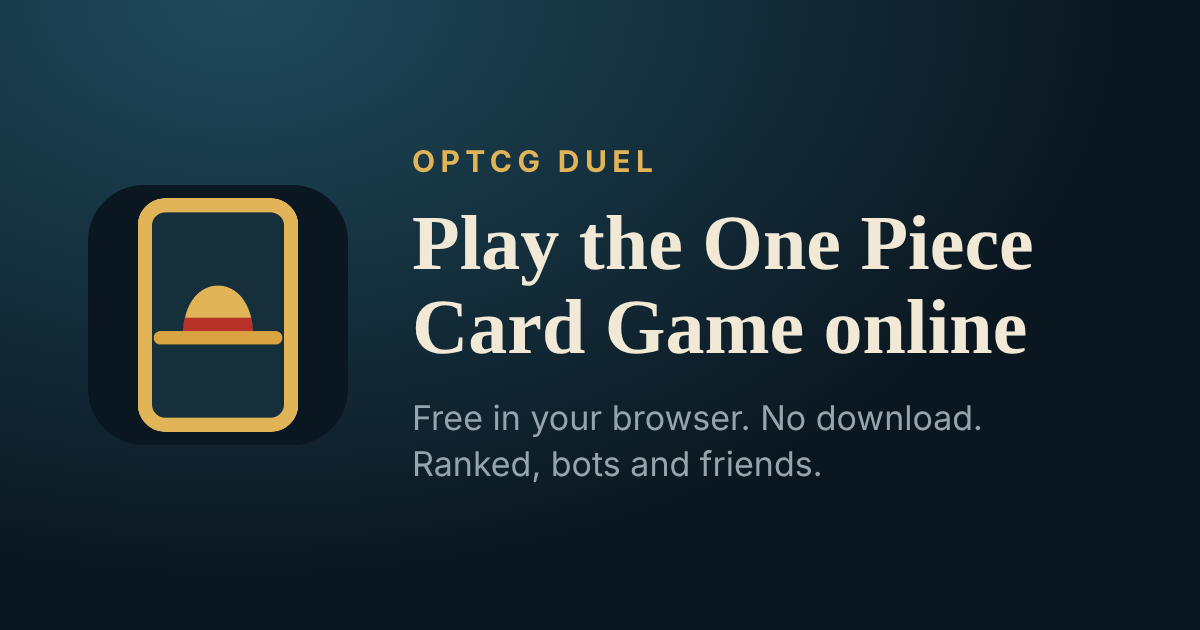
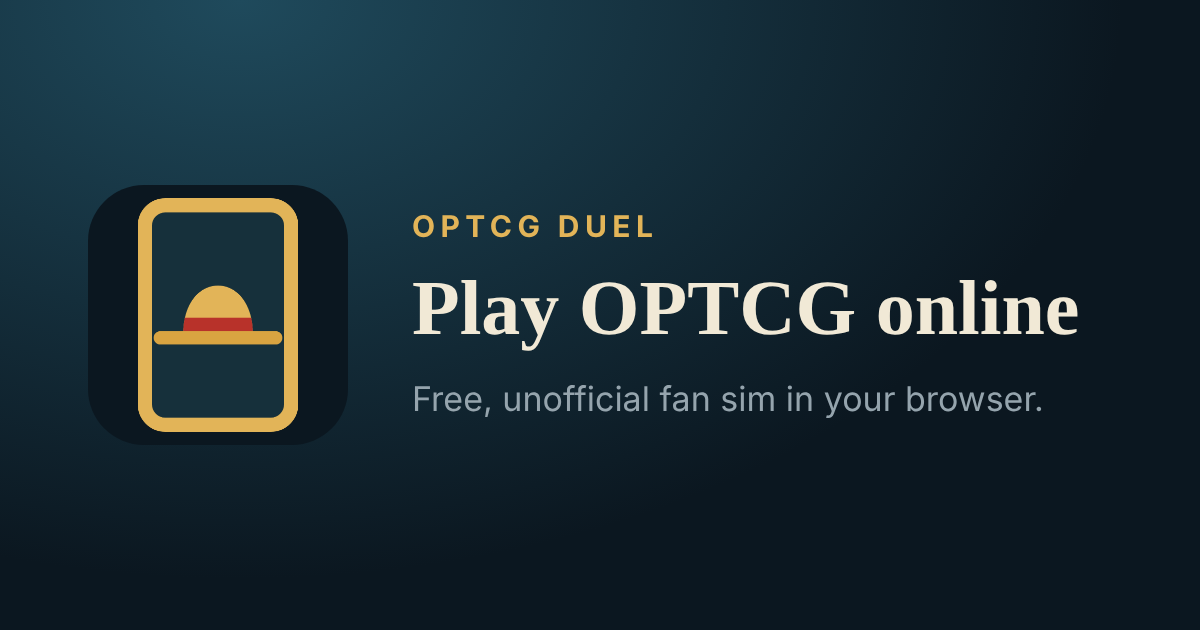
Copy: frame the public pages as an unofficial fan project, not the official game (#807)
Claude-Session: https://claude.ai/code/session_01YAFSoGCEig1xq7bZnX8uPi

diff --git a/duel-web/index.html b/duel-web/index.html
@@ -16,21 +16,21 @@
          of the fixed black of "black". -->
     <meta name="apple-mobile-web-app-status-bar-style" content="default" />
     <meta name="apple-mobile-web-app-title" content="OPTCG Duel" />
-    <title>OPTCG Duel – Play the One Piece Card Game online, free in your browser</title>
-    <meta name="description" content="Play the One Piece Card Game online for free in your browser. No download. Ranked matches, bots to practice against, friends, and your own decks from the OPTCG Deck Planner." />
+    <title>OPTCG Duel – free unofficial One Piece TCG simulator</title>
+    <meta name="description" content="Play OPTCG online, free in your browser. An unofficial fan-made One Piece TCG simulator with ranked matches, bots, friends and your own decks. No download." />
     <link rel="canonical" href="https://optcgduel.app/" />
     <meta property="og:type" content="website" />
     <meta property="og:site_name" content="OPTCG Duel" />
-    <meta property="og:title" content="OPTCG Duel – Play the One Piece Card Game online, free in your browser" />
-    <meta property="og:description" content="Play the One Piece Card Game online for free in your browser. No download. Ranked matches, bots to practice against, friends, and your own decks from the OPTCG Deck Planner." />
+    <meta property="og:title" content="OPTCG Duel – free unofficial One Piece TCG simulator" />
+    <meta property="og:description" content="Play OPTCG online, free in your browser. An unofficial fan-made One Piece TCG simulator with ranked matches, bots, friends and your own decks. No download." />
     <meta property="og:url" content="https://optcgduel.app/" />
     <meta property="og:image" content="https://optcgduel.app/og-image.png" />
     <meta property="og:image:width" content="1200" />
     <meta property="og:image:height" content="630" />
     <meta property="og:image:alt" content="OPTCG Duel" />
     <meta name="twitter:card" content="summary_large_image" />
-    <meta name="twitter:title" content="OPTCG Duel – Play the One Piece Card Game online, free in your browser" />
-    <meta name="twitter:description" content="Play the One Piece Card Game online for free in your browser. No download. Ranked matches, bots to practice against, friends, and your own decks from the OPTCG Deck Planner." />
+    <meta name="twitter:title" content="OPTCG Duel – free unofficial One Piece TCG simulator" />
+    <meta name="twitter:description" content="Play OPTCG online, free in your browser. An unofficial fan-made One Piece TCG simulator with ranked matches, bots, friends and your own decks. No download." />
     <meta name="twitter:image" content="https://optcgduel.app/og-image.png" />
     <script type="application/ld+json">
     {
@@ -38,7 +38,7 @@
       "@type": "WebApplication",
       "name": "OPTCG Duel",
       "url": "https://optcgduel.app/",
-      "description": "Play the One Piece Card Game online for free in your browser. No download. Ranked matches, bots to practice against, friends, and your own decks from the OPTCG Deck Planner.",
+      "description": "Play OPTCG online, free in your browser. An unofficial fan-made One Piece TCG simulator with ranked matches, bots, friends and your own decks. No download.",
       "applicationCategory": "GameApplication",
       "operatingSystem": "Any (web browser)",
       "offers": {

diff --git a/frontend/index.html b/frontend/index.html
@@ -12,12 +12,12 @@
       } catch (e) {}
     </script>
     <title>OPTCG Deck Planner – One Piece TCG deck builder with live TCGPlayer prices</title>
-    <meta name="description" content="Plan One Piece Card Game decks, track the cards you own and see what you still need to buy, with live TCGPlayer market prices and recent sales. Free with a Google account." />
+    <meta name="description" content="Plan One Piece TCG decks, track the cards you own and see what you still need to buy, with live TCGPlayer prices. An unofficial fan-made tool, free with a Google account." />
     <link rel="canonical" href="https://optcg-deck-planner.app/" />
     <meta property="og:type" content="website" />
     <meta property="og:site_name" content="OPTCG Deck Planner" />
     <meta property="og:title" content="OPTCG Deck Planner – One Piece TCG deck builder with live TCGPlayer prices" />
-    <meta property="og:description" content="Plan One Piece Card Game decks, track the cards you own and see what you still need to buy, with live TCGPlayer market prices and recent sales. Free with a Google account." />
+    <meta property="og:description" content="Plan One Piece TCG decks, track the cards you own and see what you still need to buy, with live TCGPlayer prices. An unofficial fan-made tool, free with a Google account." />
     <meta property="og:url" content="https://optcg-deck-planner.app/" />
     <meta property="og:image" content="https://optcg-deck-planner.app/og-image.png" />
     <meta property="og:image:width" content="1200" />
@@ -25,7 +25,7 @@
     <meta property="og:image:alt" content="OPTCG Deck Planner" />
     <meta name="twitter:card" content="summary_large_image" />
     <meta name="twitter:title" content="OPTCG Deck Planner – One Piece TCG deck builder with live TCGPlayer prices" />
-    <meta name="twitter:description" content="Plan One Piece Card Game decks, track the cards you own and see what you still need to buy, with live TCGPlayer market prices and recent sales. Free with a Google account." />
+    <meta name="twitter:description" content="Plan One Piece TCG decks, track the cards you own and see what you still need to buy, with live TCGPlayer prices. An unofficial fan-made tool, free with a Google account." />
     <meta name="twitter:image" content="https://optcg-deck-planner.app/og-image.png" />
     <script type="application/ld+json">
     {
@@ -33,7 +33,7 @@
       "@type": "WebApplication",
       "name": "OPTCG Deck Planner",
       "url": "https://optcg-deck-planner.app/",
-      "description": "Plan One Piece Card Game decks, track the cards you own and see what you still need to buy, with live TCGPlayer market prices and recent sales. Free with a Google account.",
+      "description": "Plan One Piece TCG decks, track the cards you own and see what you still need to buy, with live TCGPlayer prices. An unofficial fan-made tool, free with a Google account.",
       "applicationCategory": "UtilitiesApplication",
       "operatingSystem": "Any (web browser)",
       "offers": {

diff --git a/duel-web/src/pages/PlayOnlinePage.tsx b/duel-web/src/pages/PlayOnlinePage.tsx
@@ -16,7 +16,7 @@ export const PLAY_ONLINE_FAQ: readonly { q: string; a: string }[] = [
     a: "No. It runs in your browser on a computer, tablet or phone. You can add it to your Home Screen if you want an app icon.",
   },
   {
-    q: "Can I play the One Piece Card Game on my phone?",
+    q: "Can I play OPTCG on my phone?",
     a: "Yes. The board has a layout made for phones, and you can drag cards with your finger.",
   },
   {
@@ -60,7 +60,7 @@ const FEATURES: readonly { title: string; body: string }[] = [
   { title: "Phone layout", body: "A board built for small screens, not a shrunken desktop page." },
 ];
 
-/** Public landing page for people searching how to play the One Piece Card Game online. */
+/** Public landing page for people searching how to play OPTCG online. */
 export function PlayOnlinePage() {
   useFaqJsonLd();
   return (
@@ -72,10 +72,14 @@ export function PlayOnlinePage() {
         </header>
 
         <section className="play-online-hero">
-          <h1 className="page-title play-online-title">Play the One Piece Card Game online — free, in your browser</h1>
+          <h1 className="page-title play-online-title">Play OPTCG online, free in your browser</h1>
+          <p className="play-online-notice" role="note">
+            <b>Unofficial fan-made One Piece TCG simulator.</b> Not affiliated with or endorsed by Bandai.
+          </p>
           <p className="play-online-lede">
-            OPTCG Duel is a free place to play the One Piece Card Game with no download and no sign-up to start. It works on
-            desktop and on your phone, and the rules engine runs the game for you, from attacks and blocks to card effects.
+            OPTCG Duel is a free, unofficial simulator for the One Piece Trading Card Game. There is no download and no sign-up
+            to start. It works on desktop and on your phone, and the rules engine runs the game for you, from attacks and
+            blocks to card effects.
           </p>
           <div className="play-online-cta">
             <Link to="/" className="btn btn-primary btn-lg">

diff --git a/duel-web/src/seo/routeMeta.ts b/duel-web/src/seo/routeMeta.ts
@@ -15,26 +15,26 @@ export type RouteMetaEntry = {
 const NAME = "OPTCG Duel";
 
 const HOME_DESCRIPTION =
-  "Play the One Piece Card Game online for free in your browser. No download. Ranked matches, bots to practice against, friends, and your own decks from the OPTCG Deck Planner.";
+  "Play OPTCG online, free in your browser. An unofficial fan-made One Piece TCG simulator with ranked matches, bots, friends and your own decks. No download.";
 
 /** First match wins, so list a literal path before a parameterized one that would also match it (/decks/meta before /decks/:deckId/...). */
 export const ROUTE_META: readonly RouteMetaEntry[] = [
   {
     pattern: "/",
-    title: "OPTCG Duel – Play the One Piece Card Game online, free in your browser",
+    title: "OPTCG Duel – free unofficial One Piece TCG simulator",
     description: HOME_DESCRIPTION,
   },
   {
     pattern: "/play-one-piece-tcg-online",
-    title: "Play the One Piece Card Game online – free, no download | OPTCG Duel",
+    title: "Play OPTCG online free – unofficial One Piece TCG sim | OPTCG Duel",
     description:
-      "How to play the One Piece Card Game online in your browser: pick a deck, play ranked, practice against a bot or invite a friend. Free, works on phone and desktop.",
+      "How to play OPTCG online in your browser with this unofficial fan-made One Piece TCG simulator: pick a deck, play ranked, practice against a bot or invite a friend. Free.",
   },
   {
     pattern: "/decks/meta",
     title: "One Piece TCG meta decks – try them free | OPTCG Duel",
     description:
-      "Browse the leaders and decklists doing well in the One Piece Card Game right now, then copy one and play it online against a bot or a friend.",
+      "Browse the leaders and decklists doing well in the One Piece TCG right now, then copy one and try it online in this unofficial fan-made simulator.",
   },
   {
     pattern: "/leaderboard",

diff --git a/frontend/src/seo/routeMeta.ts b/frontend/src/seo/routeMeta.ts
@@ -15,7 +15,7 @@ export type RouteMetaEntry = {
 const NAME = "OPTCG Deck Planner";
 
 const HOME_DESCRIPTION =
-  "Plan One Piece Card Game decks, track the cards you own and see what you still need to buy, with live TCGPlayer market prices and recent sales. Free with a Google account.";
+  "Plan One Piece TCG decks, track the cards you own and see what you still need to buy, with live TCGPlayer prices. An unofficial fan-made tool, free with a Google account.";
 
 /** First match wins. */
 export const ROUTE_META: readonly RouteMetaEntry[] = [
@@ -28,7 +28,7 @@ export const ROUTE_META: readonly RouteMetaEntry[] = [
     pattern: "/meta",
     title: "One Piece TCG meta decks and prices – OPTCG Deck Planner",
     description:
-      "See which leaders and decklists are winning in the One Piece Card Game, with the TCGPlayer price of each list, and copy one into your planner.",
+      "See which leaders and decklists are winning in the One Piece TCG, with the TCGPlayer price of each list, and copy one into your planner. Unofficial fan-made tool.",
   },
   { pattern: "/whats-new", title: `What’s new – ${NAME}`, description: "Everything that changed in the OPTCG Deck Planner recently, newest first." },
   { pattern: "/terms", title: `Terms & credits – ${NAME}`, description: "Terms of use and credits for the OPTCG Deck Planner, an unofficial fan-made One Piece Card Game tool." },

diff --git a/packages/patch-notes/src/notes.ts b/packages/patch-notes/src/notes.ts
@@ -11,7 +11,7 @@ import type { PatchNote } from "./types";
  */
 export const PATCH_NOTES: PatchNote[] = [
   // 2026-10-29
-  { date: "2026-10-29", app: "duel", pr: 807, title: "A page that explains how to play online", text: "OPTCG Duel now has a page that shows how to start playing the One Piece Card Game in your browser, what you can do in the game and answers to common questions. Find it under How to play online at the bottom of any page." },
+  { date: "2026-10-29", app: "duel", pr: 807, title: "A page that explains how to play online", text: "OPTCG Duel now has a page that shows how to start playing OPTCG in your browser, what you can do in the game and answers to common questions. Find it under How to play online at the bottom of any page." },
   { date: "2026-10-29", app: "planner", pr: 807, title: "A home page for visitors who aren't signed in", text: "Anyone who opens the planner without being signed in now sees a home page that explains what it does, with a button to sign in and a link to browse meta decks, instead of going straight to the sign-in screen." },
   { date: "2026-10-29", app: "both", pr: 807, title: "Links to the apps show a preview card", text: "Sharing a link to the planner or OPTCG Duel in a chat or social post now shows a title, a short description and a picture." },
   // 2026-10-28

diff --git a/frontend/src/LandingPage.tsx b/frontend/src/LandingPage.tsx
@@ -73,6 +73,9 @@ export function PlannerLandingPage({ onDevLogin }: { onDevLogin: () => Promise<v
             Plan your decks, keep track of the cards you own, and see exactly what is left to buy at today’s TCGPlayer
             prices. Free with a Google account.
           </p>
+          <p className="landing-notice" role="note">
+            <b>Unofficial fan project.</b> Not affiliated with or endorsed by Bandai.
+          </p>
           <div className="landing-cta">
             <a className="btn primary" href={api.googleLoginUrl()}>
               Sign in with Google

diff --git a/duel-web/src/pages/playOnline.css b/duel-web/src/pages/playOnline.css
@@ -113,3 +113,21 @@
   font-size: 0.88rem;
   line-height: 1.55;
 }
+
+.play-online-notice {
+  margin: 0;
+  padding: 0.55rem 0.8rem;
+  border: 1px solid var(--line);
+  border-left: 3px solid var(--chrome);
+  border-radius: 8px;
+  background: rgb(var(--panel-rgb) / 0.5);
+  color: var(--muted);
+  font-size: 0.85rem;
+  line-height: 1.45;
+  max-width: 60ch;
+}
+
+.play-online-notice b {
+  color: var(--ink);
+  font-size: inherit;
+}

diff --git a/frontend/src/styles.css b/frontend/src/styles.css
@@ -7350,3 +7350,19 @@ button.ghost.scan-tray-fix {
     grid-template-columns: repeat(5, minmax(0, 1fr));
   }
 }
+
+.landing-notice {
+  margin: 0;
+  padding: 0.5rem 0.8rem;
+  border: 1px solid var(--line);
+  border-left: 3px solid var(--gold);
+  border-radius: 8px;
+  background: var(--card-sunk);
+  color: var(--muted);
+  font-size: 0.88rem;
+  line-height: 1.45;
+}
+
+.landing-notice b {
+  color: var(--ink);
+}
